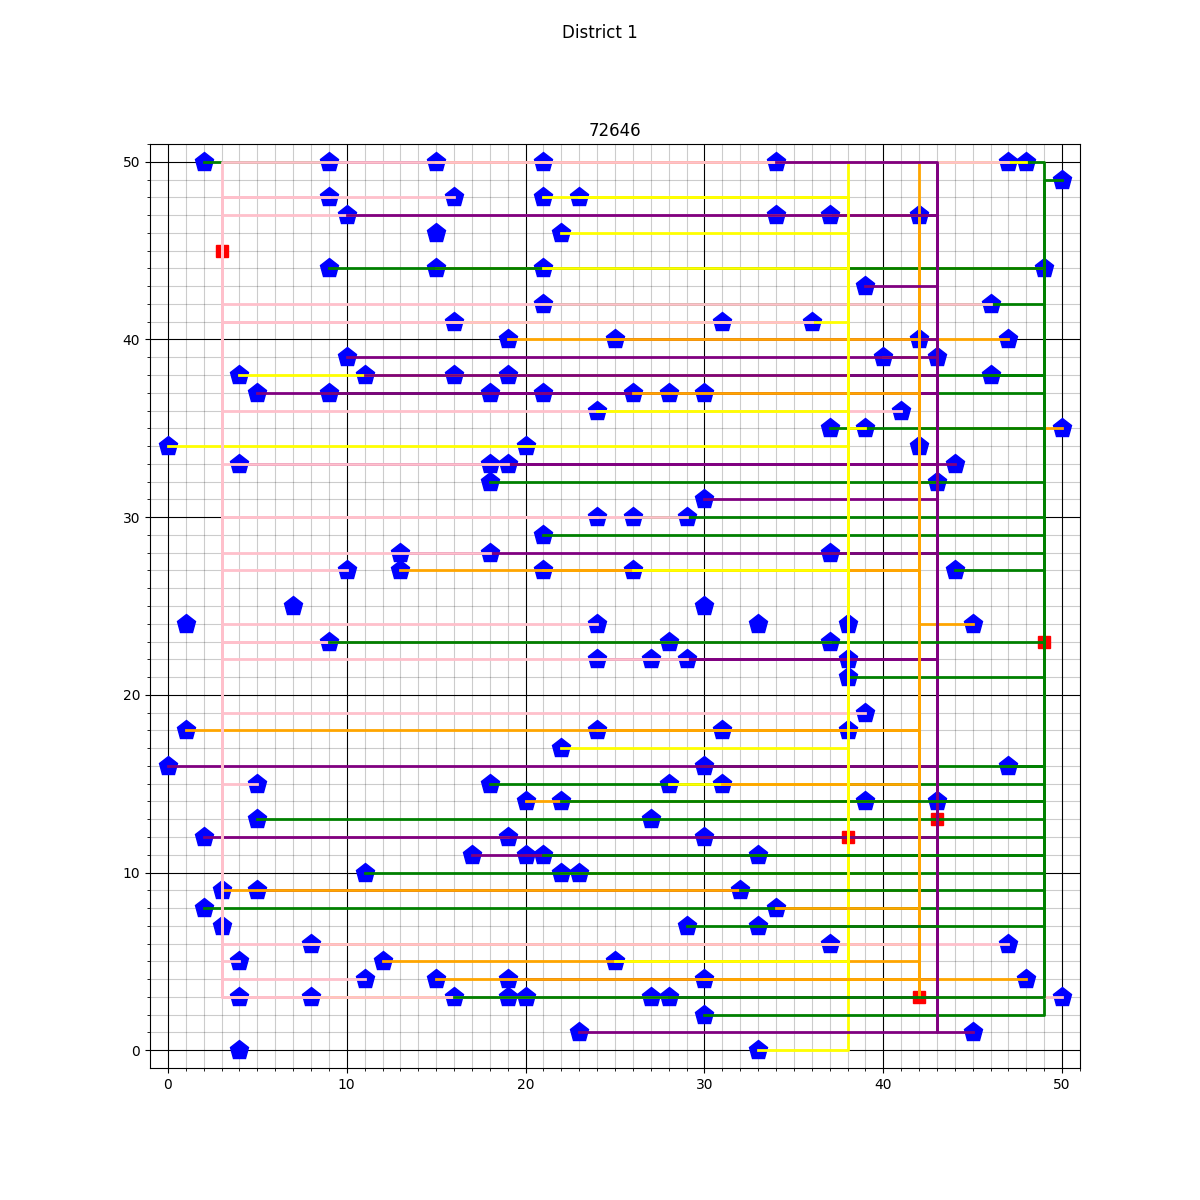
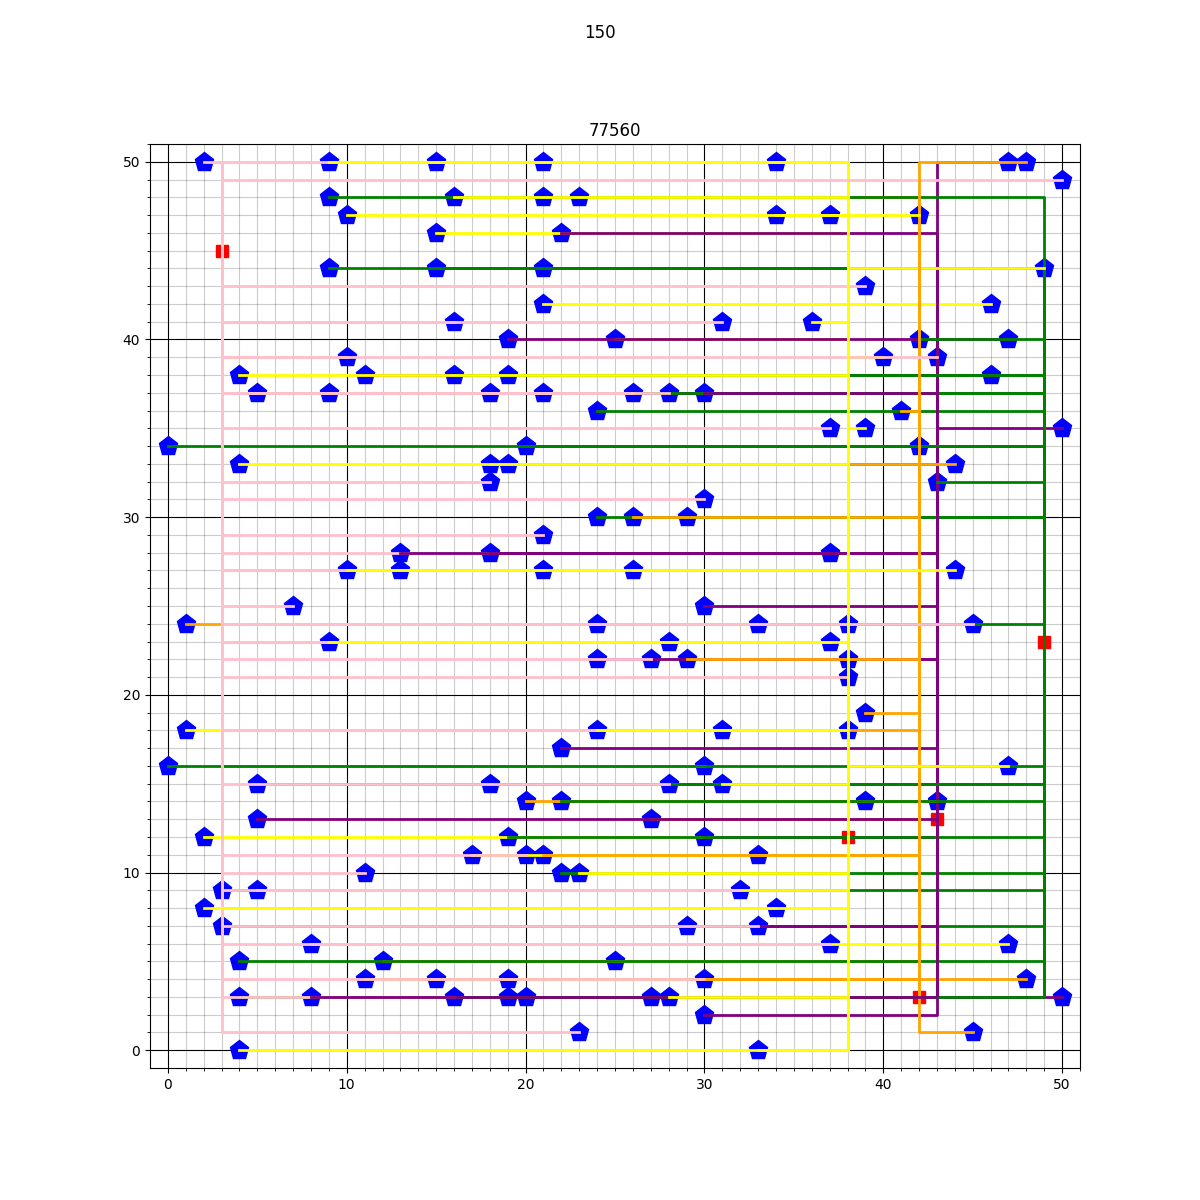
sort en assign

diff --git a/main.py b/main.py
@@ -14,30 +14,52 @@ from readBattery import readBattery
 from readHouse import readHouse
 from vis import plot
 from classCable import Cable
+from bubblesort import bubblesort
 
 # create path names
 housePath = "data/district_1/district-1_houses.csv"
 batteryPath =  "data/district_1/district-1_batteries.csv"
 
-# create house- and battery objects and store them lists
-houses = readHouse(housePath)
-batteries = readBattery(batteryPath)
+noFit = True
 
-# create test house bat and cable
-cables = []
-count = 0
+while noFit:
 
-for house in houses:
-    # random between 1 and 5
-    number = random.random() * 4
-    number = round(number)
-    battery = batteries[int(number)]
-    if battery.checkHouse(house):
-        cable = battery.addHouse(house)
-        #print(f"{count} - {battery.addHouse(house)}")
-        cables.append(cable)
-        count += 1 
-    #cableTest = Cable(houses[i], batteries[int(number)])
+    # create house- and battery objects and store them lists
+    houses = readHouse(housePath)
+    houses = bubblesort(houses)
+
+    batteries = readBattery(batteryPath)
+
+    # create test house bat and cable
+    cables = []
+    count = 0
+
+    for house in houses:
+        # random between 0 and 4
+        battery = batteries[int(round(random.random() * 4))]
+        
+        quitCount = 10
+
+        while not battery.checkHouse(house) and quitCount > 0:
+            battery = batteries[int(round(random.random() * 4))]
+            quitCount -= 1
+
+        if battery.checkHouse(house):      
+            cable = battery.addHouse(house)
+            #print(f"{count} - {battery.addHouse(house)}")
+            cables.append(cable)
+            count += 1
+
+    print(f"battery0: {batteries[0].remainingCapacity()}")
+    print(f"battery1: {batteries[1].remainingCapacity()}")
+    print(f"battery2: {batteries[2].remainingCapacity()}")
+    print(f"battery3: {batteries[3].remainingCapacity()}")
+    print(f"battery4: {batteries[4].remainingCapacity()}")
+
+    print(len(cables))
+    noFit = len(cables) != len(houses)
+    print(noFit)
+
 
 # plot district
 plot(housePath, batteryPath, cables, count)

diff --git a/code/algorithms/bubblesort.py b/code/algorithms/bubblesort.py
@@ -1,0 +1,20 @@
+import os, sys
+
+directory = os.path.dirname(os.path.realpath(__file__))
+sys.path.append(os.path.join(directory, "code"))
+sys.path.append(os.path.join(directory, "code", "classes"))
+
+def bubblesort(houses):
+    unsorted = houses
+    sorted = []
+
+    for i in range(len(houses)):
+        maxHouse = houses[0]
+        for j in range(len(unsorted)):
+            if houses[j].output > maxHouse.output:
+                maxHouse = houses[j]
+        sorted.append(maxHouse)
+        unsorted.remove(maxHouse)
+
+    return sorted
+

diff --git a/code/visualisation/vis.py b/code/visualisation/vis.py
@@ -19,12 +19,8 @@ from classCable import Cable
 from objective import objective
 
 
-<<<<<<< HEAD
-def plot(path_houses, path_batteries, cables_list):
-=======
 
 def plot(path_houses, path_batteries, cables_list, count):
->>>>>>> f3749e3059adb6a09fe816d3c85ddd85488418eb
     '''
     Plots all houses batteries and cables and takes path to housedata batterydata and a list with cable objects
     '''

diff --git a/code/classes/classBattery.py b/code/classes/classBattery.py
@@ -48,4 +48,7 @@ class Battery():
     def checkHouse(self, house):
         return self._totalOutput + house.output <= self.capacity
 
+    def remainingCapacity(self):
+        return self.capacity - self._totalOutput
+
 
